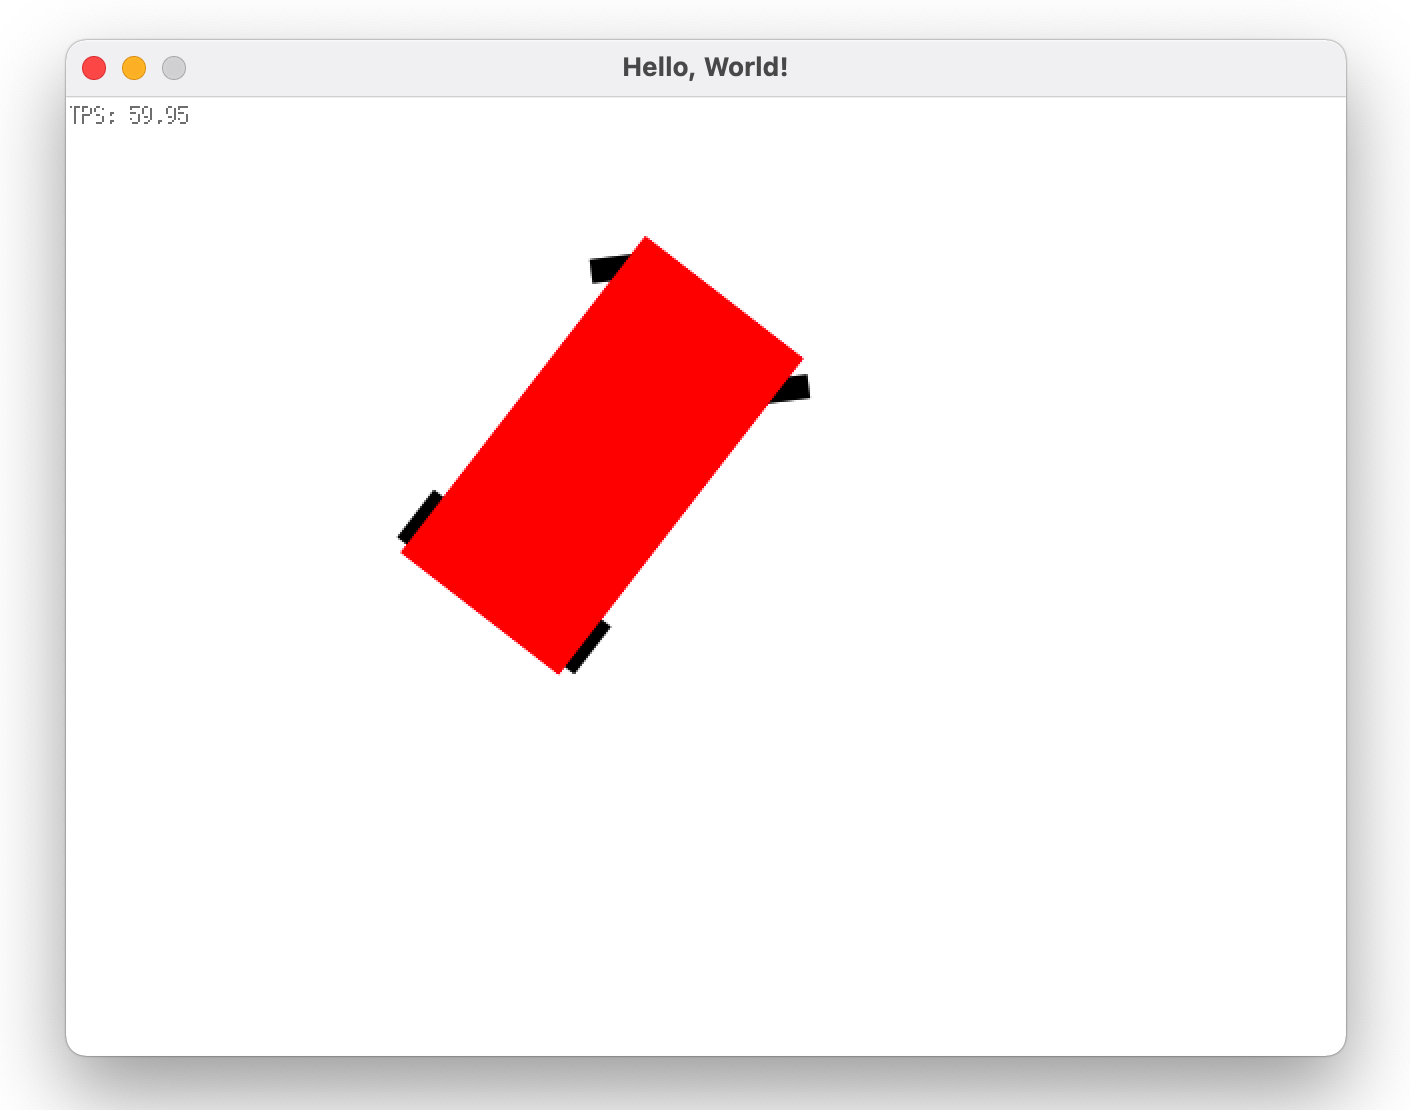
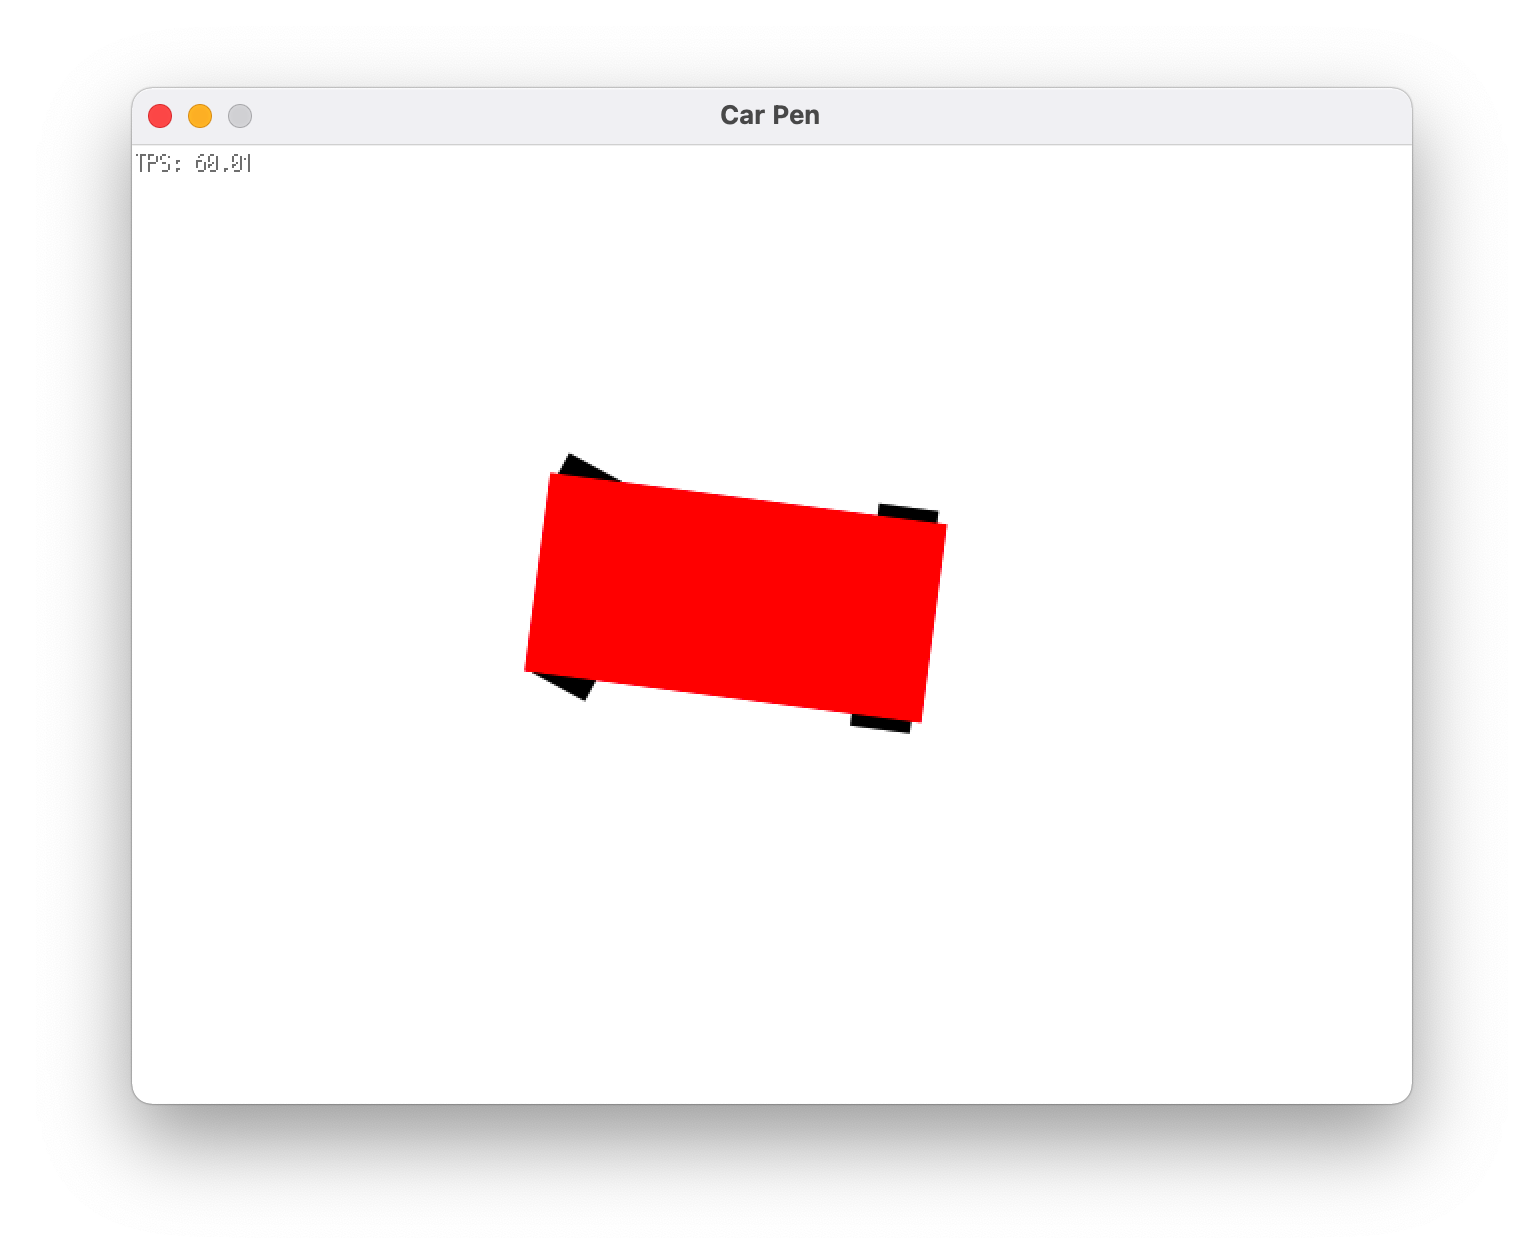
change Screen_Shot

Changed region(s): [[0.0, 0.0306, 0.9986, 1.0], [0.2809, 0.2144, 0.6241, 0.6126], [0.4369, 0.0306, 0.5617, 0.1225]]

diff --git a/main.go b/main.go
@@ -121,7 +121,7 @@ func main() {
 	g.car.Direction = v1.Normalize()
 
 	ebiten.SetWindowSize(640, 480)
-	ebiten.SetWindowTitle("Hello, World!")
+	ebiten.SetWindowTitle("Car Pen")
 
 	// pt1 := car.Point{X: 2, Y: 3}
 	// fmt.Println(pt1)
